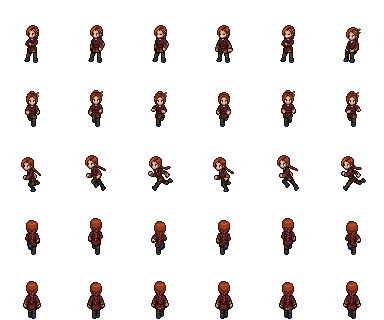
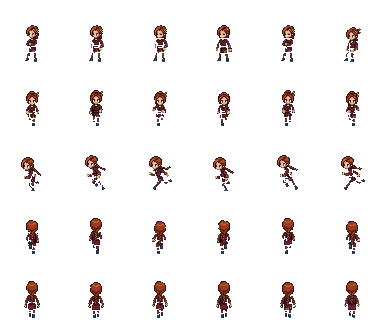
feat: 使用用户四向行走帧表替换单帧贴图（char_blade/sword/thunder），支持上下左右行走动画

diff --git a/js/iso.js b/js/iso.js
@@ -9,9 +9,9 @@
  *   assets/tiles/ground.png        等距地面：横向 2 帧（64×32/帧）—— 0=土地 1=青石板
  *   assets/tiles/buildings.png     等距建筑（按占地比例缩放绘制，透明底）
  *   assets/tiles/decorations.png   国风装饰：横排 12 帧（96×96/帧）垂柳/青松/竹/灯笼×2/石狮/水井/火盆/练功桩/石牌坊/玉龙像/武雕像
- *   assets/characters/player.png           玩家立绘（底边居中对齐脚点）
- *   assets/characters/npc_merchant.png     商人 NPC
- *   assets/characters/npc_villager.png     村民/弟子 NPC
+ *   assets/char_blade.png          玩家四向行走帧表（6列×5行，64×64/格）
+ *   assets/char_sword.png          商人 NPC 四向行走帧表
+ *   assets/char_thunder.png        村民/弟子 NPC 四向行走帧表
  *   assets/ui/panel.png            UI 底板（自动铺到状态栏/任务栏/对话框）
  *   assets/ui/icons.png            技能图标：横向 4 格（64×64/格）
  *
@@ -116,19 +116,19 @@
   //  sprite 对应 ASSETS 键名；素材缺失时自动用彩色占位小人
   const npcs = [
     { id: 'jieyin', name: '接引弟子', mx: 10.5, my: 6.5, color: '#7fc4ff',
-      sprite: 'npcVillager', hasQuest: true,
+      sprite: 'npcVillager', face: 'down', hasQuest: true,
       talk: '可是来拜师的？青玄宗收徒有规矩：先寻引路之人，再过问心阶。\n（任务：与接引弟子对话 0/1 —— 你已完成对话，可去丹房、器坊一带转转。）' },
     { id: 'shangren', name: '灵石商人', mx: 13.5, my: 8.5, color: '#8fd3ff',
-      sprite: 'npcMerchant', hasQuest: false,
+      sprite: 'npcMerchant', face: 'left', hasQuest: false,
       talk: '灵石通万物，道友可要换些丹药符箓？\n（此处为商店占位，日后接背包与交易面板。）' },
     { id: 'zayi', name: '杂役弟子', mx: 6.5, my: 12.5, color: '#9fd48a',
-      sprite: 'npcVillager', hasQuest: false,
+      sprite: 'npcVillager', face: 'down', hasQuest: false,
       talk: '（擦汗）丹房今日要三株灵药，我采了两株，还差一株……\n（任务：采集灵药 2/3）' },
     { id: 'hedaozhang', name: '何道长', mx: 16.5, my: 11.5, color: '#c9a0dc',
-      sprite: 'npcVillager', hasQuest: true,
+      sprite: 'npcVillager', face: 'right', hasQuest: true,
       talk: '贫道观你印堂微暗，近日不宜远行。\n（任务：求得一道护身符，可去找灵石商人。）' },
     { id: 'baifashi', name: '摆法师', mx: 7.5, my: 8.5, color: '#e0c068',
-      sprite: 'npcMerchant', hasQuest: false,
+      sprite: 'npcMerchant', face: 'down', hasQuest: false,
       talk: '占一卦三枚灵石——今日宜静不宜动，宜东南，忌西北。' },
   ];
 
@@ -136,7 +136,7 @@
     mx: 10.5, my: 12.5,
     target: null,           // {mx,my} 目标点；null = 停止
     speed: 3.0,             // 格/秒
-    face: 1, walking: false, walkT: 0,
+    face: 'down', walking: false, walkT: 0,
   };
 
   // =====================================================
@@ -146,14 +146,19 @@
     ground:       'assets/tiles/ground.png',
     buildings:    'assets/tiles/buildings.png',
     decorations:  'assets/tiles/decorations.png',
-    player:       'assets/characters/player.png',
-    npcMerchant:  'assets/characters/npc_merchant.png',
-    npcVillager:  'assets/characters/npc_villager.png',
+    player:       'assets/char_blade.png',
+    npcMerchant:  'assets/char_sword.png',
+    npcVillager:  'assets/char_thunder.png',
     uiPanel:      'assets/ui/panel.png',
     uiIcons:      'assets/ui/icons.png',
     uiAvatar:     'assets/ui/avatar.png',
   };
   const SPR = {};                       // 只放「加载成功」的图片
+  const SHEETS = {                        // 角色 sprite sheet 布局（6列×5行，64×64/格）
+    player:      { cols: 6, rows: 5, cellW: 64, cellH: 64, frames: 6, dir: { down: 0, right: 1, left: 2, up: 3 } },
+    npcMerchant: { cols: 6, rows: 5, cellW: 64, cellH: 64, frames: 6, dir: { down: 0, right: 1, left: 2, up: 3 } },
+    npcVillager: { cols: 6, rows: 5, cellW: 64, cellH: 64, frames: 6, dir: { down: 0, right: 1, left: 2, up: 3 } },
+  };
   const missing = [];
   Object.keys(ASSETS).forEach(key => {
     const img = new Image();
@@ -341,19 +346,30 @@
     }
   }
 
-  /** 角色：有素材用立绘（底边居中对齐脚点），否则画占位小人 */
+  /** 角色：sprite sheet 四向行走动画（64×64/格），缺失则回退占位小人 */
   function drawCharacter(o, isPlayer, time) {
     const s = isoToScreen(o.mx, o.my);
     if (s.x < -90 || s.x > W + 90 || s.y < -160 || s.y > H + 90) return;
     const bob = (isPlayer && o.walking) ? Math.abs(Math.sin(o.walkT * 10)) * 3
                                         : Math.sin(time * 2 + o.mx) * 1.2;
     const baseY = s.y - bob;
-    const img = isPlayer ? SPR.player : SPR[o.sprite];
+    const key = isPlayer ? 'player' : o.sprite;
+    const img = SPR[key];
+    const cfg = SHEETS[key];
 
     ctx.fillStyle = 'rgba(0,0,0,.3)';
     ctx.beginPath(); ctx.ellipse(s.x, s.y, 12, 5, 0, 0, Math.PI * 2); ctx.fill();
 
-    if (img) {
+    if (img && cfg) {
+      const dh = TILE_H * 2.4;
+      const dw = dh * (cfg.cellW / cfg.cellH);
+      const dirRow = cfg.dir[o.face] ?? 0;
+      const animT = (isPlayer && o.walking) ? o.walkT : time + o.mx;
+      const frame = Math.floor(animT * 6) % cfg.frames;
+      const sx = frame * cfg.cellW;
+      const sy = dirRow * cfg.cellH;
+      ctx.drawImage(img, sx, sy, cfg.cellW, cfg.cellH, s.x - dw / 2, baseY - dh + 4, dw, dh);
+    } else if (img) {
       const dh = TILE_H * 2.4, dw = dh * (img.width / img.height);
       ctx.drawImage(img, s.x - dw / 2, baseY - dh + 4, dw, dh);
     } else {
@@ -368,8 +384,9 @@
       ctx.beginPath(); ctx.arc(s.x, baseY - 30, 5.5, Math.PI, Math.PI * 2); ctx.fill();
       ctx.fillRect(s.x - 2, baseY - 36, 4, 4);
       ctx.fillStyle = '#1a1410';
-      ctx.fillRect(s.x + (isPlayer ? o.face * 2 : -2), baseY - 27, 2, 2);
-      ctx.fillRect(s.x + (isPlayer ? o.face * 2 + 4 : 2), baseY - 27, 2, 2);
+      const faceSign = (o.face === 'left') ? -1 : 1;
+      ctx.fillRect(s.x + (isPlayer ? faceSign * 2 : -2), baseY - 27, 2, 2);
+      ctx.fillRect(s.x + (isPlayer ? faceSign * 2 + 4 : 2), baseY - 27, 2, 2);
     }
 
     const headTop = baseY - (img ? TILE_H * 2.4 + 2 : 40);
@@ -615,7 +632,16 @@
         if (okX) player.mx = nx;
         if (okY) player.my = ny;
         if (!okX && !okY) { player.target = null; player.walking = false; }
-        else { player.walking = true; player.walkT += dt; player.face = (dx - dy) > 0 ? 1 : -1; }
+        else {
+          player.walking = true; player.walkT += dt;
+          // 屏幕坐标投影：sx = dx - dy, sy = dx + dy，取主方向
+          const sx = dx - dy, sy = dx + dy;
+          if (Math.abs(sy) > Math.abs(sx)) {
+            player.face = sy > 0 ? 'down' : 'up';
+          } else {
+            player.face = sx > 0 ? 'right' : 'left';
+          }
+        }
       }
     } else player.walking = false;
 
